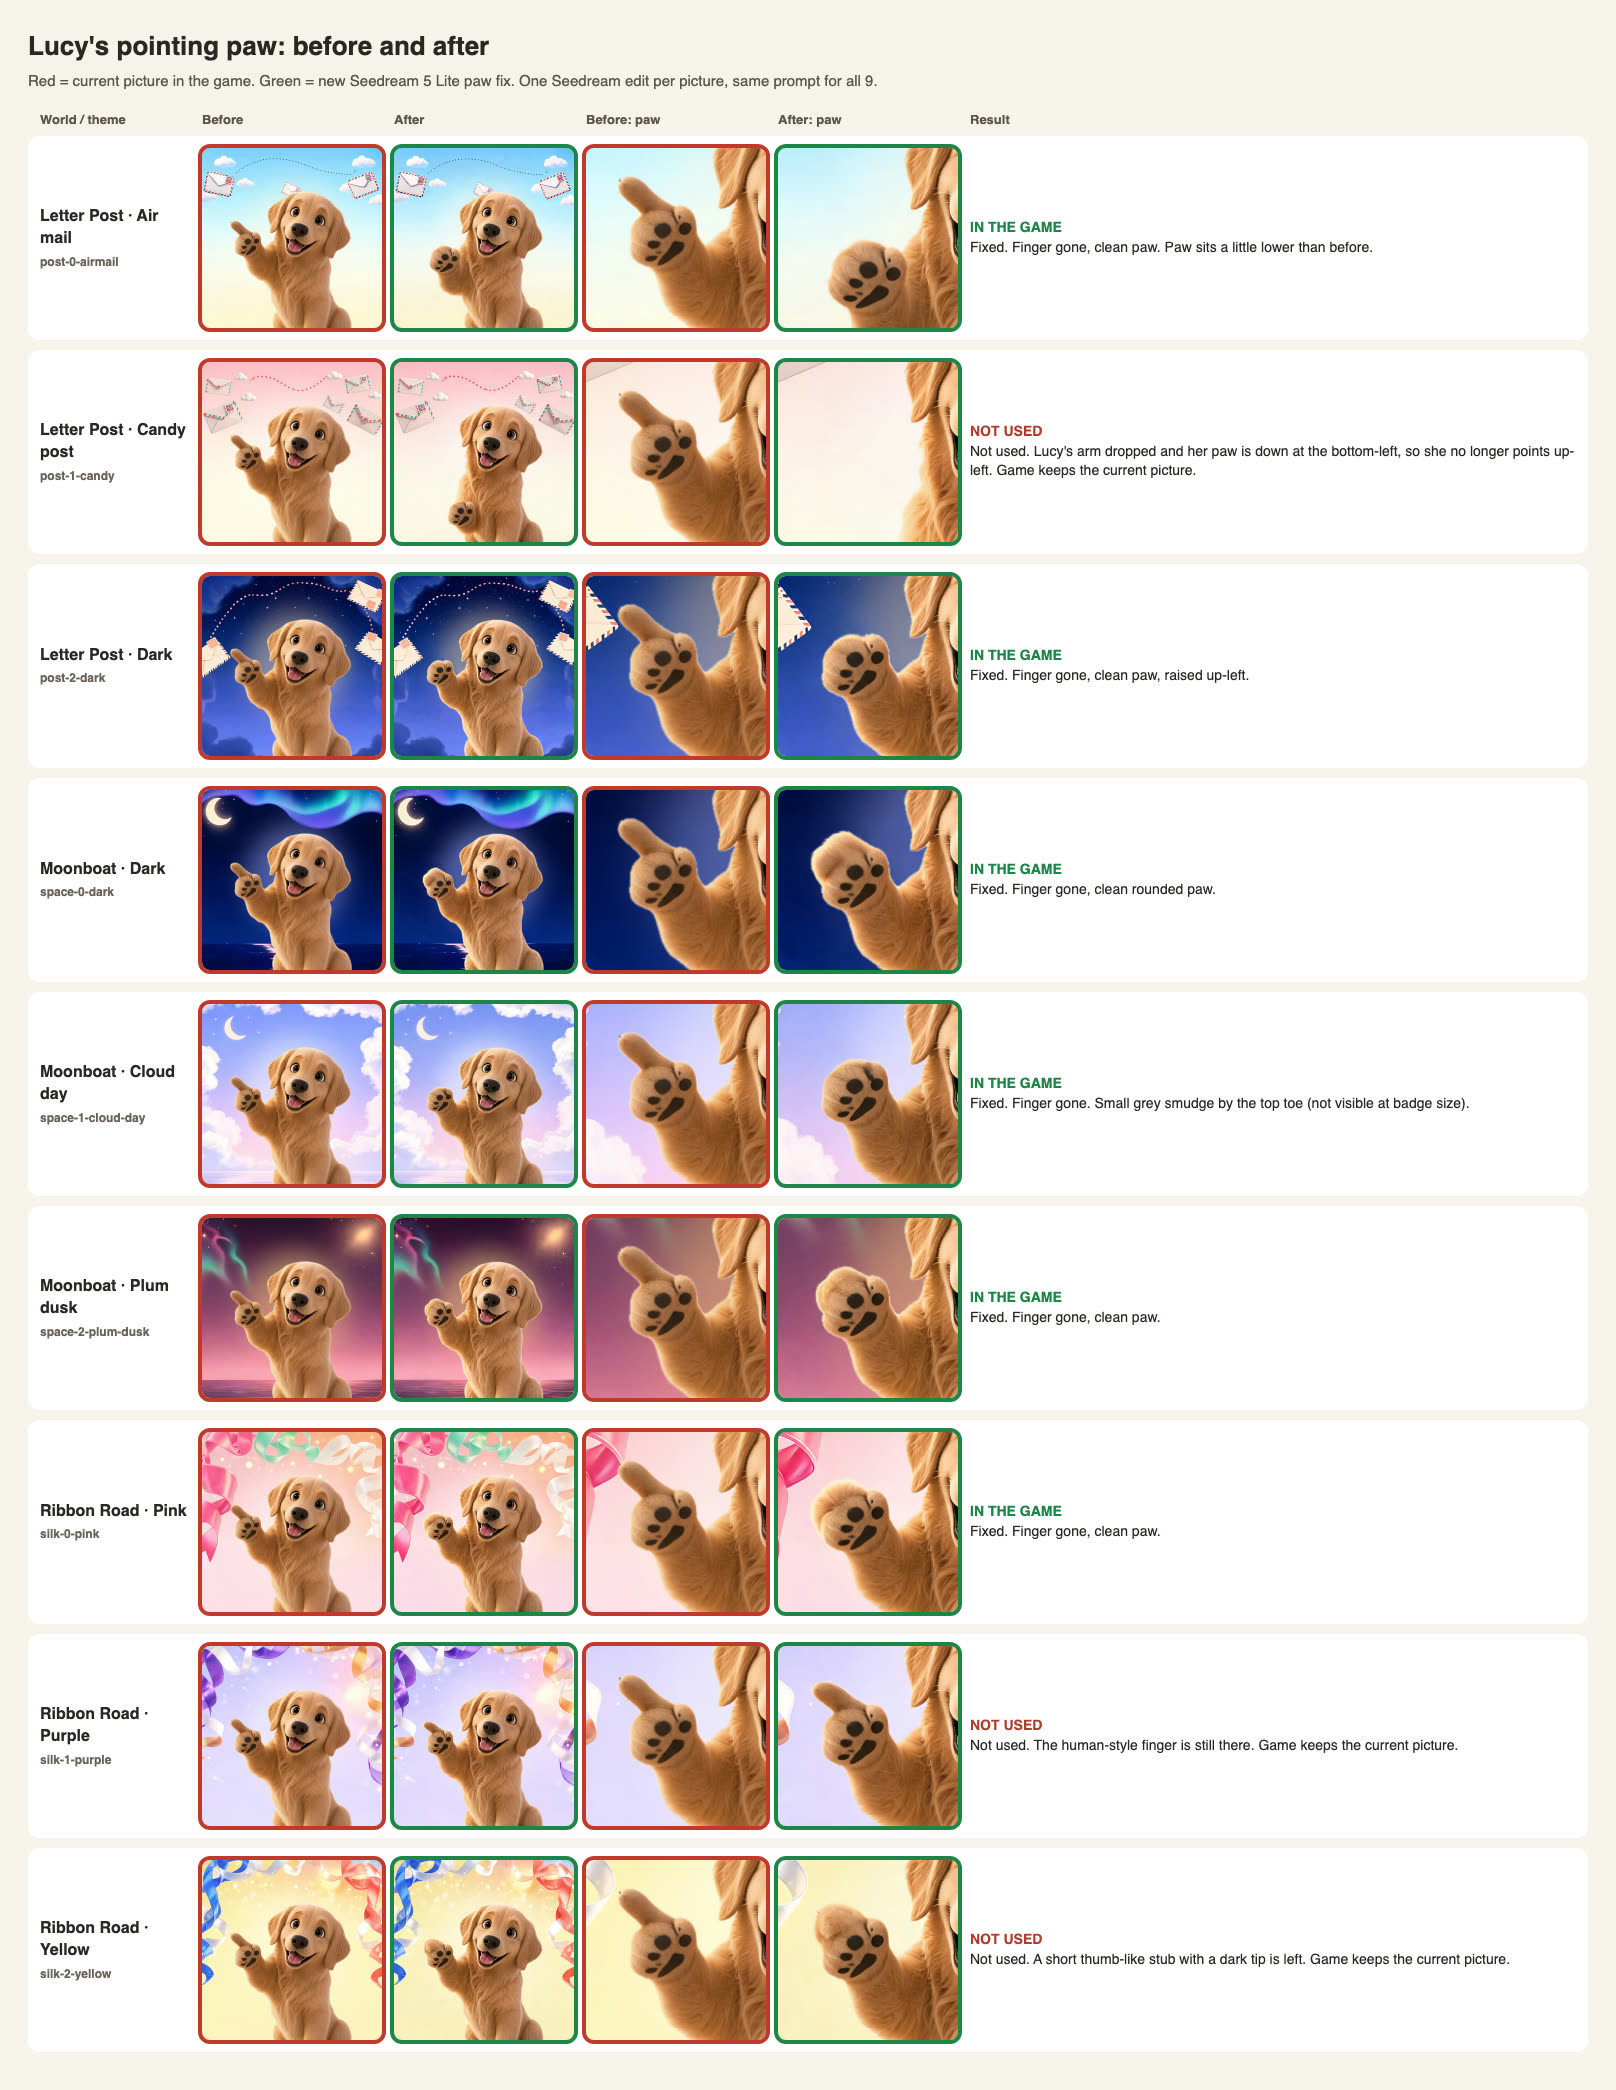
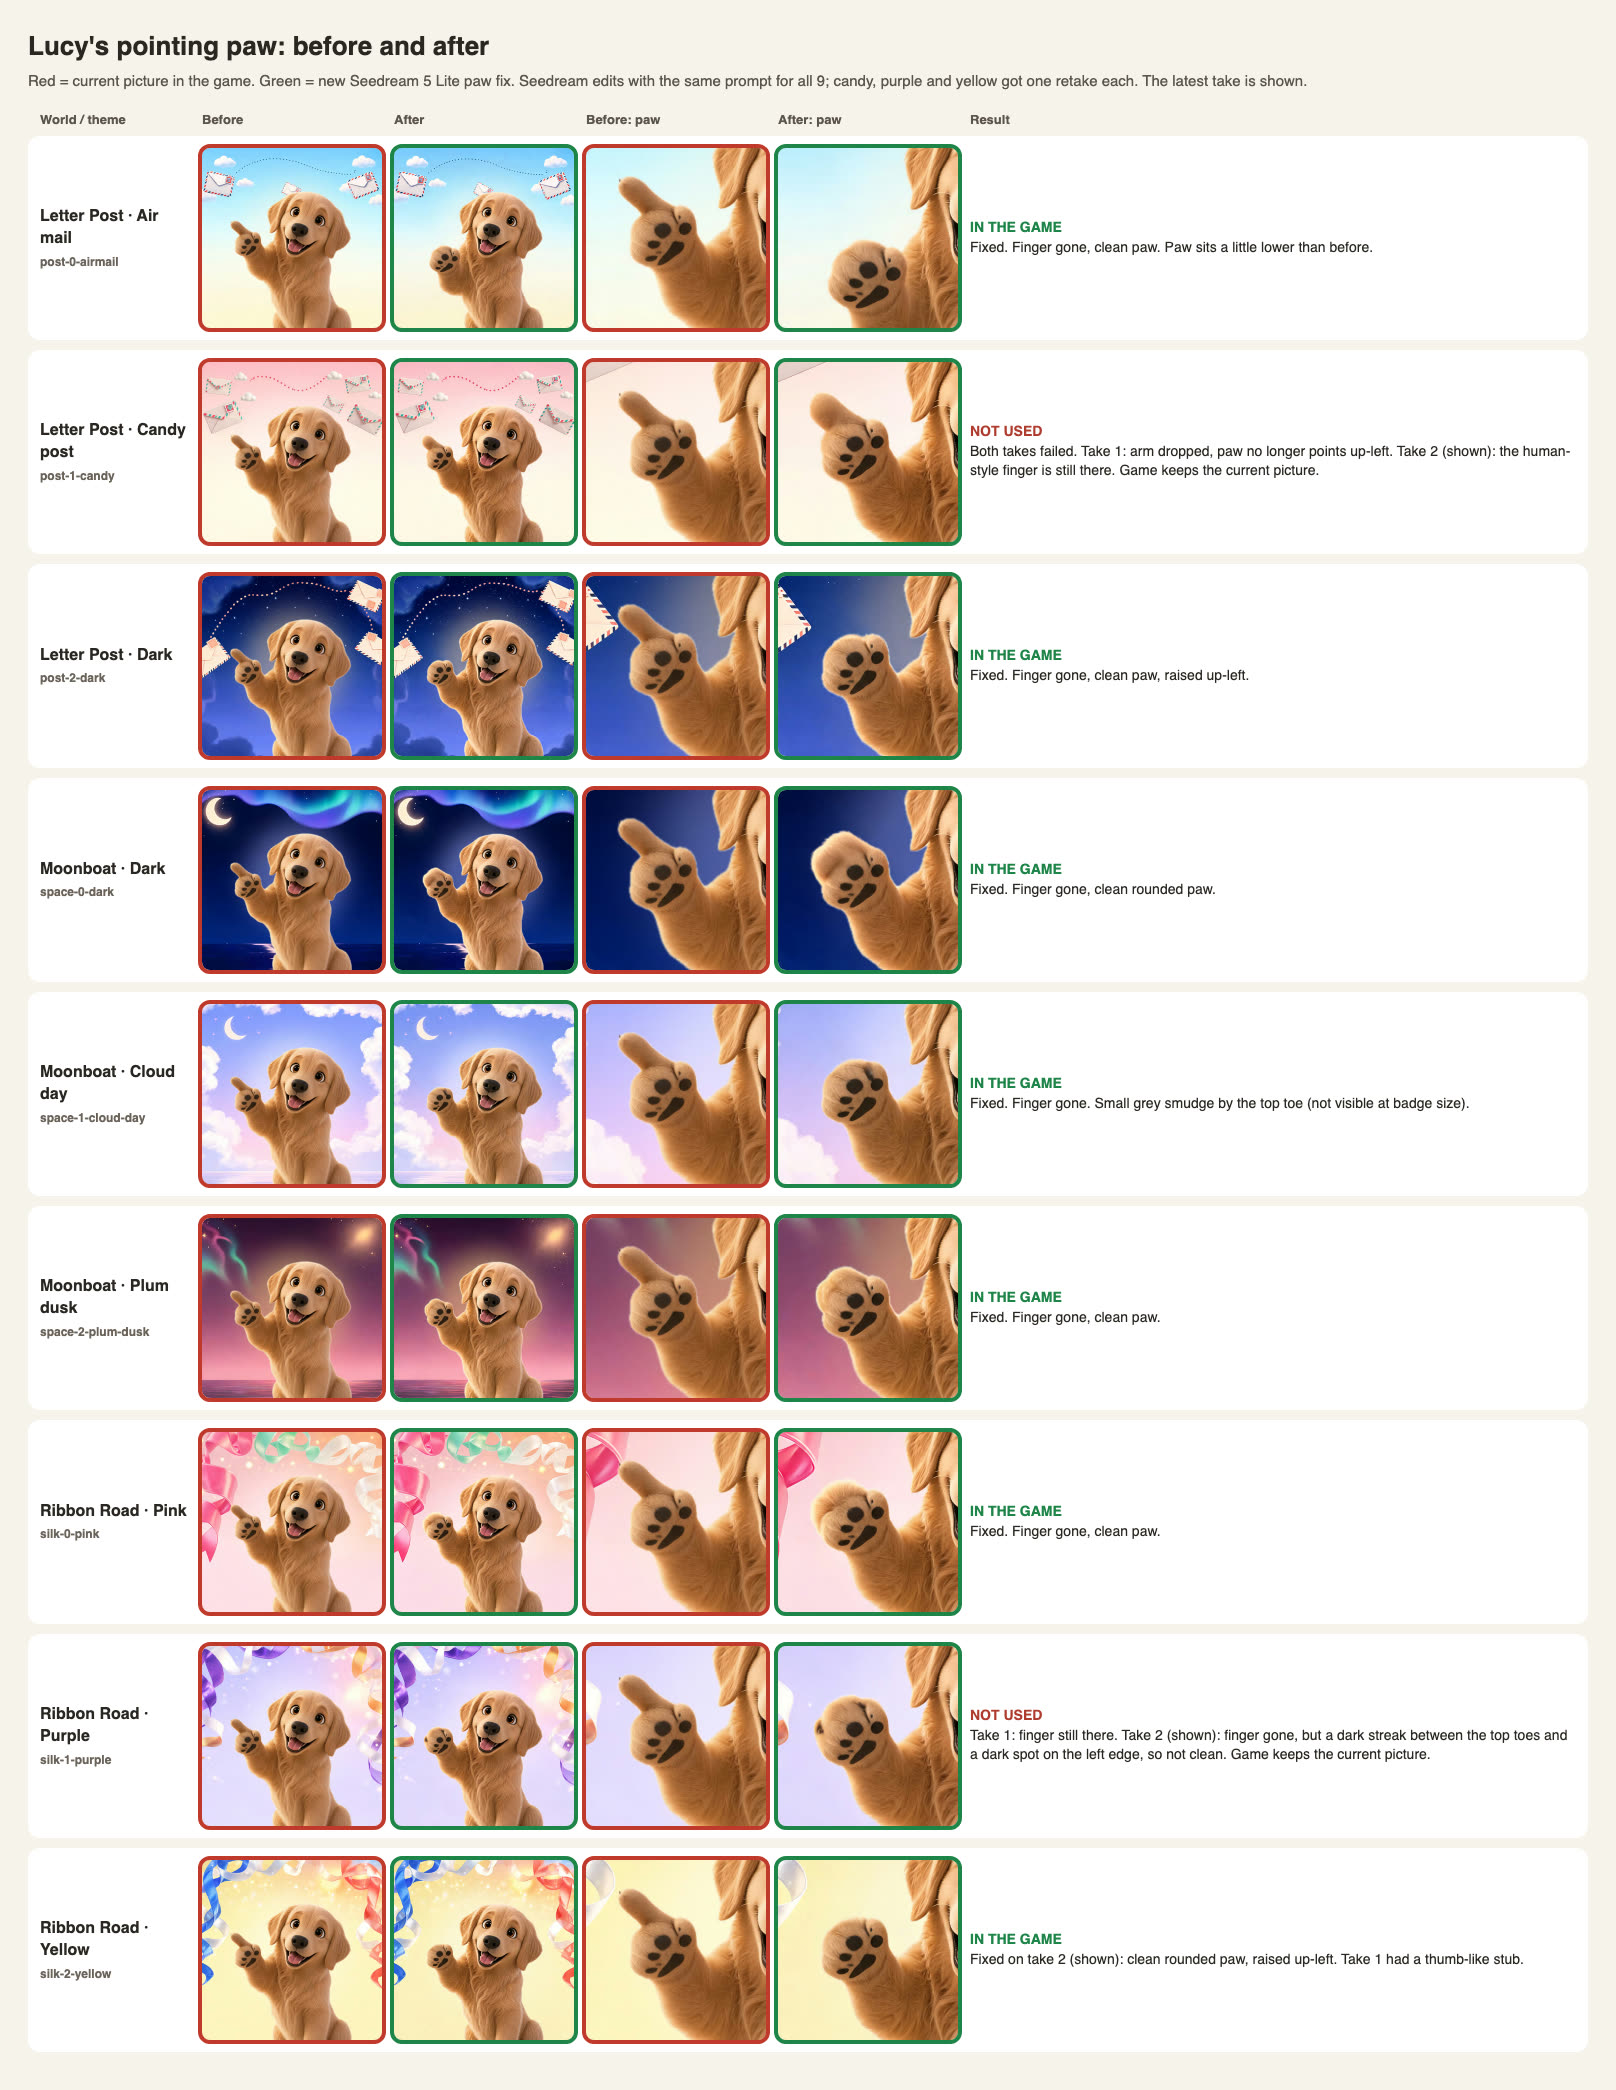
Lucy paw fix: Ribbon Road yellow retake is clean (7 of 9)
- One approved retake each for candy, purple and yellow, same prompt.
- silk-2-yellow-paw.webp added and wired in; the old picture is kept.
- post-1-candy (finger still there) and silk-1-purple (dark streak and spot
  on the paw) were not clean, so they keep their current pictures.
- lucy_hint expects the new name; offline manifest rebuilt; report and
  before/after sheet updated. No audio changes.

diff --git a/v1-letter-post/hint.js b/v1-letter-post/hint.js
@@ -9,11 +9,11 @@
 // One pointing Lucy per world and theme (same Lucy, the world's own backdrop),
 // in the order of each world's theme menu (config.js). Her paw points up-left.
 // "-paw" pictures are the fixed ones: a plain dog paw, no human-style finger.
-// post-1-candy, silk-1-purple and silk-2-yellow still wait for a good fix.
+// post-1-candy and silk-1-purple still wait for a good fix.
 const pictures = {
   post: ['post-0-airmail-paw', 'post-1-candy', 'post-2-dark-paw'],
   space: ['space-0-dark-paw', 'space-1-cloud-day-paw', 'space-2-plum-dusk-paw'],
-  silk: ['silk-0-pink-paw', 'silk-1-purple', 'silk-2-yellow']
+  silk: ['silk-0-pink-paw', 'silk-1-purple', 'silk-2-yellow-paw']
 };
 const image = () => {
   const set = pictures[window.CONCEPT?.kind];

diff --git a/sw-assets.js b/sw-assets.js
@@ -1,5 +1,5 @@
 self.OFFLINE_MANIFEST = {
-  "version": "237c104e8cd78f9a",
+  "version": "399dcf05a7094061",
   "files": [
     "./accounts/client.js",
     "./accounts/config.js",
@@ -17,6 +17,7 @@ self.OFFLINE_MANIFEST = {
     "./accounts/lucy/pointing/silk-0-pink-paw.webp",
     "./accounts/lucy/pointing/silk-0-pink.webp",
     "./accounts/lucy/pointing/silk-1-purple.webp",
+    "./accounts/lucy/pointing/silk-2-yellow-paw.webp",
     "./accounts/lucy/pointing/silk-2-yellow.webp",
     "./accounts/lucy/pointing/space-0-dark-paw.webp",
     "./accounts/lucy/pointing/space-0-dark.webp",

diff --git a/reports/lucy-hint.md b/reports/lucy-hint.md
@@ -2,7 +2,7 @@
 
 Branch `claude/lucy-hint`, built on `claude/fullsite-redesign` (5e8992f). There have been five passes so far, plus a paw fix on its own branch:
 
-- **Paw fix (branch `claude/lucy-paw-fix`, from `claude/lucy-hint` 12e1853)** takes the human-style finger off Lucy's pointing paw in 6 of the 9 pictures.
+- **Paw fix (branch `claude/lucy-paw-fix`, from `claude/lucy-hint` 12e1853)** takes the human-style finger off Lucy's pointing paw in 7 of the 9 pictures.
 - **Round 5 (Bradley's round 4 brief)** changes the hint's words and makes Lucy bigger on whiteboards.
 - **Round 4** wires in the approved pointing-Lucy pictures, one per world and theme.
 - **Round 3** followed Bradley's answers to the three questions from round 2.
@@ -16,11 +16,11 @@ Nothing was deployed or merged, and no live account or live data was touched. No
 Bradley: "Lucy can point with her paw, but she doesn't have a long finger to point. She's not a human. So it just needs to be the paw."
 
 - **How:** one Seedream 5 Lite edit per picture (flow `yuQAe0hoTg2oErjfSE3P`, new "Paw fix …" nodes; no existing node changed). Each edit used that picture's round-2 master as its reference and the same paw-only prompt Bradley approved on the first picture. The runs went from Bradley's Mac Chrome with his VPN on, because the connector itself is region-blocked.
-- **In the game now (6):** `post-0-airmail-paw`, `post-2-dark-paw`, `space-0-dark-paw`, `space-1-cloud-day-paw`, `space-2-plum-dusk-paw`, `silk-0-pink-paw`. Each is a new 256 × 256 WebP in `accounts/lucy/pointing/`, 7–10 KB. Lucy's paw still points up-left. The finger is gone and the pads are the same.
-- **Not used yet (3):** each of these keeps its current picture until a better take exists.
-  - `post-1-candy`: her arm dropped and her paw no longer points up-left.
-  - `silk-1-purple`: the finger is still there.
-  - `silk-2-yellow`: a short thumb-like stub is left.
+- **In the game now (7):** `post-0-airmail-paw`, `post-2-dark-paw`, `space-0-dark-paw`, `space-1-cloud-day-paw`, `space-2-plum-dusk-paw`, `silk-0-pink-paw`, `silk-2-yellow-paw`. Each is a new 256 × 256 WebP in `accounts/lucy/pointing/`, 7–10 KB. Lucy's paw still points up-left. The finger is gone and the pads are the same.
+- **Retakes:** Bradley approved one retake each for candy, purple and yellow, with the same prompt. Yellow came out clean on the second take: its first take left a short thumb-like stub.
+- **Not used yet (2):** each of these keeps its current picture until a better take exists.
+  - `post-1-candy`: on take 1 her arm dropped and her paw no longer pointed up-left. On take 2 the finger is still there.
+  - `silk-1-purple`: on take 1 the finger was still there. Take 2 removed it, but it left a dark streak between the top toes and a dark spot on the paw's edge.
 - **Kept:** the old pictures stay in place, and nothing was overwritten.
 - **Changed files:** `v1-letter-post/hint.js` (the picture list), `tests/lucy_hint.cjs` (the expected names) and `sw-assets.js` (rebuilt so the new pictures work offline).
 
